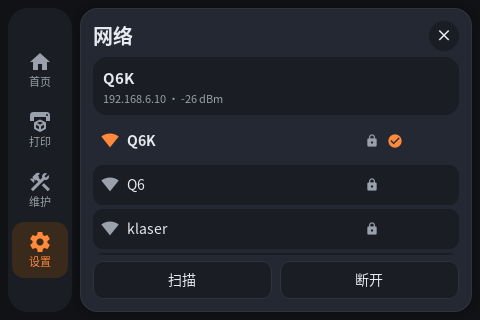
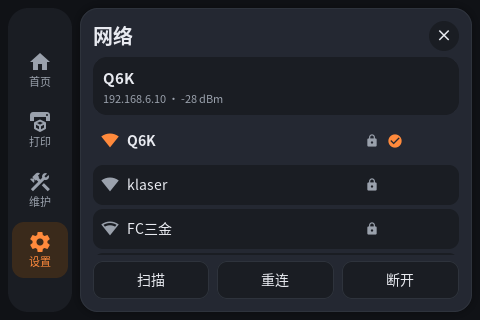
Add home light toggle and make Wi-Fi connects fail-safe
- home header pill toggles led cavity_led; state is read from
  printer.objects (led cavity_led.color_data) and updated optimistically
- Wi-Fi: back up wpa_supplicant.conf before changing anything, only
  save_config after the connection succeeds; on failure restore the
  backup and reconfigure so the old network comes back
- add a reconnect button (wpa_cli reconfigure + reconnect)
- clearer 'service not running' state
- UI version 1.4.0

diff --git a/src/ui.cpp b/src/ui.cpp
@@ -75,8 +75,13 @@ const uint32_t kPalette[28] = {
 void update_sheet();
 void update_nozzle_page();
 void show_toast(const char* msg);
+void light_toggle_cb(lv_event_t* e);
 void open_net_page();
 void net_card_cb(lv_event_t* e);
+
+bool g_light_pending = false;
+bool g_light_val = false;
+uint32_t g_light_at = 0;
 
 Wifi* WIFI = nullptr;
 bool g_net_open = false;
@@ -228,6 +233,11 @@ struct Refs {
     lv_obj_t* def_group_sw[4] = {nullptr, nullptr, nullptr, nullptr};
     lv_obj_t* def_seg[2] = {nullptr, nullptr};
 
+    // 首页灯光
+    lv_obj_t* home_light = nullptr;
+    lv_obj_t* home_light_icon = nullptr;
+    lv_obj_t* home_light_text = nullptr;
+
     // 网络
     lv_obj_t* net_line = nullptr;
     lv_obj_t* net_page = nullptr;
@@ -235,6 +245,7 @@ struct Refs {
     lv_obj_t* net_sub = nullptr;
     lv_obj_t* net_list = nullptr;
     lv_obj_t* net_scan_btn = nullptr;
+    lv_obj_t* net_rec_btn = nullptr;
     lv_obj_t* net_dis_btn = nullptr;
     lv_obj_t* net_pw_page = nullptr;
     lv_obj_t* net_pw_title = nullptr;
@@ -787,6 +798,31 @@ void show_toast(const char* msg) {
     lv_obj_remove_flag(R.toast, LV_OBJ_FLAG_HIDDEN);
     lv_obj_move_to_index(R.toast, -1);
     g_toast_until = lv_tick_get() + 2600;
+}
+
+void apply_light_ui(bool on) {
+    if (!R.home_light) return;
+    lv_obj_set_style_bg_color(R.home_light,
+                              theme::c(on ? theme::PRIMARY_DIM : theme::SURFACE_HI), 0);
+    if (R.home_light_icon)
+        lv_obj_set_style_text_color(R.home_light_icon,
+                                    theme::c(on ? theme::PRIMARY : theme::MUTED), 0);
+    if (R.home_light_text)
+        lv_obj_set_style_text_color(R.home_light_text,
+                                    theme::c(on ? theme::TEXT : theme::MUTED), 0);
+}
+
+void light_toggle_cb(lv_event_t*) {
+    if (!MR) return;
+    PrinterState s = MR->snapshot();
+    bool cur = g_light_pending ? g_light_val : s.light_on;
+    bool want = !cur;
+    g_light_pending = true;
+    g_light_val = want;
+    g_light_at = lv_tick_get();
+    MR->send_gcode(want ? "SET_LED LED=cavity_led WHITE=1"
+                        : "SET_LED LED=cavity_led WHITE=0");
+    apply_light_ui(want);
 }
 
 void save_presets() {
@@ -2111,6 +2147,24 @@ void build_home(lv_obj_t* p) {
                           LV_FLEX_ALIGN_CENTER);
     mk_label(head, "Snapmaker U1", 20, true, theme::TEXT);
 
+    lv_obj_t* lb = lv_button_create(head);
+    lv_obj_set_size(lb, LV_SIZE_CONTENT, 26);
+    lv_obj_set_style_radius(lb, 999, 0);
+    lv_obj_set_style_bg_color(lb, theme::c(theme::SURFACE_HI), 0);
+    lv_obj_set_style_bg_opa(lb, LV_OPA_COVER, 0);
+    lv_obj_set_style_border_width(lb, 0, 0);
+    lv_obj_set_style_shadow_width(lb, 0, 0);
+    lv_obj_set_style_pad_hor(lb, 8, 0);
+    lv_obj_set_style_pad_ver(lb, 2, 0);
+    lv_obj_set_flex_flow(lb, LV_FLEX_FLOW_ROW);
+    lv_obj_set_flex_align(lb, LV_FLEX_ALIGN_CENTER, LV_FLEX_ALIGN_CENTER,
+                          LV_FLEX_ALIGN_CENTER);
+    lv_obj_set_style_pad_column(lb, 4, 0);
+    R.home_light_icon = mk_icon(lb, IC_LIGHT, 15, theme::MUTED);
+    R.home_light_text = mk_label(lb, "灯光", 12, false, theme::MUTED);
+    lv_obj_add_event_cb(lb, light_toggle_cb, LV_EVENT_CLICKED, nullptr);
+    R.home_light = lb;
+
     lv_obj_t* chip = mk_obj(head);
     lv_obj_set_size(chip, LV_SIZE_CONTENT, 28);
     lv_obj_set_style_bg_color(chip, theme::c(theme::SURFACE_HI), 0);
@@ -2441,7 +2495,7 @@ void build_settings(lv_obj_t* p) {
     lv_obj_align(R.dev_nozzle, LV_ALIGN_TOP_LEFT, 0, 46);
     R.gui_line = mk_label(c2, "原厂 GUI 偏好 · 自动映射 —", 11, false, theme::MUTED);
     lv_obj_align(R.gui_line, LV_ALIGN_TOP_LEFT, 0, 68);
-    lv_obj_t* ver = mk_label(c2, "skreeu1 1.3.0 · LVGL + FreeType · 480×320", 11, false, 0x5A616B);
+    lv_obj_t* ver = mk_label(c2, "skreeu1 1.4.0 · LVGL + FreeType · 480×320", 11, false, 0x5A616B);
     lv_obj_align(ver, LV_ALIGN_BOTTOM_LEFT, 0, 0);
 
     // 打印偏好（Klipper print_task_config）
@@ -2654,7 +2708,7 @@ void net_refresh_ui(const WifiSnapshot& s) {
     if (R.net_sub) {
         char buf[128];
         if (!s.available) {
-            snprintf(buf, sizeof(buf), "找不到 wpa_supplicant");
+            snprintf(buf, sizeof(buf), "Wi-Fi 服务未运行，请重启打印机");
         } else if (s.connecting) {
             snprintf(buf, sizeof(buf), "%s", g_net_target.empty() ? "请稍候" : g_net_target.c_str());
         } else if (s.connected) {
@@ -2693,6 +2747,17 @@ void net_refresh_cb(lv_event_t*) {
 void net_disconnect_cb(lv_event_t*) {
     if (WIFI) WIFI->request_disconnect();
     show_toast("已断开 Wi-Fi");
+}
+
+void net_reconnect_cb(lv_event_t*) {
+    if (!WIFI) return;
+    WifiSnapshot s = WIFI->snapshot();
+    if (!s.available) {
+        show_toast("Wi-Fi 服务未运行，请重启打印机");
+        return;
+    }
+    WIFI->request_reconnect();
+    show_toast("正在重新连接…");
 }
 
 void open_net_page() {
@@ -2749,8 +2814,9 @@ void build_net_page(lv_obj_t* screen) {
     lv_obj_set_flex_flow(ft, LV_FLEX_FLOW_ROW);
     lv_obj_set_style_pad_column(ft, 8, 0);
     R.net_scan_btn = mk_button(ft, "扫描", false, net_refresh_cb, nullptr, 38);
+    R.net_rec_btn = mk_button(ft, "重连", false, net_reconnect_cb, nullptr, 38);
     R.net_dis_btn = mk_button(ft, "断开", false, net_disconnect_cb, nullptr, 38);
-    for (lv_obj_t* b : {R.net_scan_btn, R.net_dis_btn}) {
+    for (lv_obj_t* b : {R.net_scan_btn, R.net_rec_btn, R.net_dis_btn}) {
         lv_obj_set_style_bg_color(b, theme::c(theme::SURFACE), 0);
         lv_obj_set_style_border_width(b, 1, 0);
         lv_obj_set_style_border_color(b, theme::c(theme::OUTLINE), 0);
@@ -3116,6 +3182,18 @@ void ui_tick() {
         }
         lv_label_set_text(R.bed_target, buf);
     }
+    bool light = s.light_on;
+    if (g_light_pending) {
+        if (s.light_on == g_light_val) {
+            g_light_pending = false;
+        } else if (lv_tick_get() - g_light_at > 8000) {
+            g_light_pending = false;
+            show_toast("灯光状态未确认，已恢复");
+        } else {
+            light = g_light_val;
+        }
+    }
+    apply_light_ui(light);
     update_sheet();
     update_temp_page();
     update_nozzle_page();

diff --git a/src/wifi.cpp b/src/wifi.cpp
@@ -151,6 +151,9 @@ Wifi::Wifi() {
     const char* iface = getenv("SKREEU1_WIFI_IF");
     iface_ = iface && *iface ? iface : "wlan0";
     wpa_cli_ = find_wpa_cli();
+    const char* conf = getenv("SKREEU1_WPA_CONF");
+    conf_ = conf && *conf ? conf
+                          : "/home/lava/printer_data/gui/wpa_supplicant.conf";
     mock_ = getenv("SKREEU1_WIFI_MOCK") != nullptr;
 
     if (mock_) {
@@ -252,6 +255,11 @@ void Wifi::request_connect(const std::string& ssid, const std::string& password,
 void Wifi::request_disconnect() {
     if (mock_) return;
     enqueue([this] { do_disconnect(); });
+}
+
+void Wifi::request_reconnect() {
+    if (mock_) return;
+    enqueue([this] { do_reconnect(); });
 }
 
 WifiSnapshot Wifi::snapshot() {
@@ -365,6 +373,10 @@ void Wifi::do_connect(std::string ssid, std::string password, bool sae) {
             existed = true;
         }
     }
+    const std::string bak = conf_ + ".skreeu1.bak";
+    run_cmd({"cp", "-f", conf_, bak}, 5000);
+    bool have_bak = access(bak.c_str(), R_OK) == 0;
+
     if (!existed) {
         std::string out = trim(run_cmd({wpa_cli_, "-i", iface_, "add_network"}, 5000));
         size_t nl = out.rfind('\n');
@@ -391,7 +403,6 @@ void Wifi::do_connect(std::string ssid, std::string password, bool sae) {
     run_cmd({wpa_cli_, "-i", iface_, "set_network", id, "scan_ssid", "1"}, 5000);
     run_cmd({wpa_cli_, "-i", iface_, "enable_network", id}, 5000);
     run_cmd({wpa_cli_, "-i", iface_, "select_network", id}, 5000);
-    run_cmd({wpa_cli_, "-i", iface_, "save_config"}, 5000);
 
     bool ok = false;
     std::string ip;
@@ -411,19 +422,26 @@ void Wifi::do_connect(std::string ssid, std::string password, bool sae) {
     }
 
     if (!ok) {
-        if (!existed) {
-            run_cmd({wpa_cli_, "-i", iface_, "remove_network", id}, 5000);
-            run_cmd({wpa_cli_, "-i", iface_, "save_config"}, 5000);
-        }
-        // 连接失败时回到原来的网络，避免把远程访问彻底断开
-        if (!prev_id.empty() && prev_id != id)
+        if (!existed) run_cmd({wpa_cli_, "-i", iface_, "remove_network", id}, 5000);
+        // 恢复连接前的配置文件，保证失败后还能回到原来的网络
+        if (have_bak) {
+            run_cmd({"cp", "-f", bak, conf_}, 5000);
+            run_cmd({wpa_cli_, "-i", iface_, "reconfigure"}, 8000);
+        } else if (!prev_id.empty() && prev_id != id) {
             run_cmd({wpa_cli_, "-i", iface_, "select_network", prev_id}, 5000);
-        std::lock_guard<std::mutex> lk(snap_mu_);
-        snap_.connecting = false;
-        snap_.error = "连接失败：密码错误或信号太弱";
+        }
+        {
+            std::lock_guard<std::mutex> lk(snap_mu_);
+            snap_.connecting = false;
+            snap_.error = "连接失败：密码错误或信号太弱";
+        }
+        do_status();
         return;
     }
 
+    // 只有确认连上了才写盘，避免把旧配置写坏
+    run_cmd({wpa_cli_, "-i", iface_, "save_config"}, 5000);
+    if (access(conf_.c_str(), R_OK) == 0) run_cmd({"cp", "-f", conf_, bak}, 5000);
     {
         std::lock_guard<std::mutex> lk(snap_mu_);
         snap_.connecting = false;
@@ -435,4 +453,15 @@ void Wifi::do_connect(std::string ssid, std::string password, bool sae) {
 void Wifi::do_disconnect() {
     run_cmd({wpa_cli_, "-i", iface_, "disconnect"}, 5000);
     do_status();
+}
+
+void Wifi::do_reconnect() {
+    run_cmd({wpa_cli_, "-i", iface_, "reconfigure"}, 8000);
+    run_cmd({wpa_cli_, "-i", iface_, "reconnect"}, 5000);
+    do_status();
+    WifiSnapshot s = snapshot();
+    if (!s.available) {
+        std::lock_guard<std::mutex> lk(snap_mu_);
+        snap_.error = "Wi-Fi 服务未运行，请重启打印机";
+    }
 }

diff --git a/src/moonraker.cpp b/src/moonraker.cpp
@@ -224,7 +224,8 @@ void Moonraker::poll_once() {
                       "&filament_motion_sensor%20e0_filament"
                       "&filament_motion_sensor%20e1_filament"
                       "&filament_motion_sensor%20e2_filament"
-                      "&filament_motion_sensor%20e3_filament";
+                      "&filament_motion_sensor%20e3_filament"
+                      "&led%20cavity_led";
 
     PrinterState next;
     if (!http_get(url, body)) {
@@ -302,6 +303,19 @@ void Moonraker::poll_once() {
             next.defect_nozzle = group_on("nozzle");
             if (d.contains("clean_bed") && d["clean_bed"].is_object())
                 next.defect_sens = d["clean_bed"].value("sensitivity", "low");
+        }
+
+        if (st.contains("led cavity_led") && st["led cavity_led"].is_object()) {
+            const json& l = st["led cavity_led"];
+            if (l.contains("color_data") && l["color_data"].is_array() &&
+                !l["color_data"].empty() && l["color_data"][0].is_array()) {
+                for (const auto& c : l["color_data"][0]) {
+                    if (c.is_number() && c.get<double>() > 0.01) {
+                        next.light_on = true;
+                        break;
+                    }
+                }
+            }
         }
 
         if (st.contains("gcode_move") && st["gcode_move"].is_object()) {

diff --git a/src/wifi.h b/src/wifi.h
@@ -45,6 +45,7 @@ public:
     void request_scan();
     void request_connect(const std::string& ssid, const std::string& password, bool sae);
     void request_disconnect();
+    void request_reconnect();
 
     WifiSnapshot snapshot();
 
@@ -55,9 +56,11 @@ private:
     void do_scan();
     void do_connect(std::string ssid, std::string password, bool sae);
     void do_disconnect();
+    void do_reconnect();
 
     std::string iface_;
     std::string wpa_cli_;
+    std::string conf_;
     bool mock_ = false;
 
     std::thread worker_;

diff --git a/src/app.h b/src/app.h
@@ -62,6 +62,7 @@ struct PrinterState {
     ToolState tools[4];
     double bed_temp = 0;
     double bed_target = 0;
+    bool light_on = false;   // led cavity_led
 
     // purifier (Snapmaker U1)
     bool purifier_present = false;

diff --git a/README.md b/README.md
@@ -24,6 +24,7 @@ It talks to Moonraker directly and keeps the stock services (unisrv / MQTT) runn
 - 所有写操作都是**乐观更新**：先用本地值显示，轮询确认不上就 8 秒后弹提示并回退
 - 空闲 5 分钟自动熄屏（只关背光、保持显示输出），触摸一下立即亮起，不会误点界面
 - Wi-Fi 管理：扫描、连接（WPA2/WPA3/开放网络）、断开，显示 SSID / IP / 信号强度
+- 首页顶部「灯光」开关，直接控制腔体灯（`led cavity_led`），状态从打印机读取
 - 中文用 FreeType 运行时渲染，不预烘焙字库；整屏强制重绘约 2ms/帧，空闲 CPU ≈1%
 
 ## 截图
@@ -215,9 +216,13 @@ DRM 显示控制器保持打开。
 - 点开放网络直接连接；点加密网络弹出密码键盘（支持大小写/符号，密码不回显）
 - 已连接的网络会高亮并打勾，底部可以「扫描」或「断开」
 - 连接状态、IP、RSSI 每 3 秒刷新，失败会弹提示
+- 「重连」按钮会重新加载配置并重连，适合 Wi-Fi 掉线后恢复
 
 实现上直接调用打印机自带的 `wpa_cli` / `wpa_supplicant`（和原厂 GUI 同一套配置，
 `/home/lava/printer_data/gui/wpa_supplicant.conf`），DHCP 继续由系统的 `dhcpcd` 处理。
+
+连接新网络前会先备份配置，**只有确认连上才写盘**；失败时会恢复备份并
+`reconfigure`，保证不会把原来的网络写坏、重启后还能自动连回去。
 WPA3-SAE 会自动识别；过渡模式（WPA2-PSK+SAE）用 WPA2-PSK 连接。
 接口默认 `wlan0`，可用 `SKREEU1_WIFI_IF` 覆盖。
 

diff --git a/docs/compat.md b/docs/compat.md
@@ -62,6 +62,7 @@ filament_motion_sensor e0_filament .. e3_filament
 | 载入耗材 | `AUTO_FEEDING EXTRUDER=<0..3>` |
 | 退料 | `AUTO_FEEDING EXTRUDER=<0..3> UNLOAD=1 STAGE=prepare` 然后 `STAGE=doing` |
 | 更换耗材 | `SET_PRINT_FILAMENT_CONFIG CONFIG_EXTRUDER=<0..3> VENDOR=… FILAMENT_TYPE=… FILAMENT_SUBTYPE=… [FILAMENT_COLOR_RGBA=RRGGBBAA]` |
+| 腔体灯开关 | `SET_LED LED=cavity_led WHITE=0|1`；状态读 `led cavity_led.color_data`（首页顶部「灯光」） |
 | Wi-Fi 扫描/连接 | `wpa_cli -i wlan0 scan` / `scan_results` / `list_networks` / `add_network` / `set_network` / `select_network` / `save_config` / `disconnect`（配置由 `dhcpcd` 处理地址） |
 
 约束（固件里写死的）：
